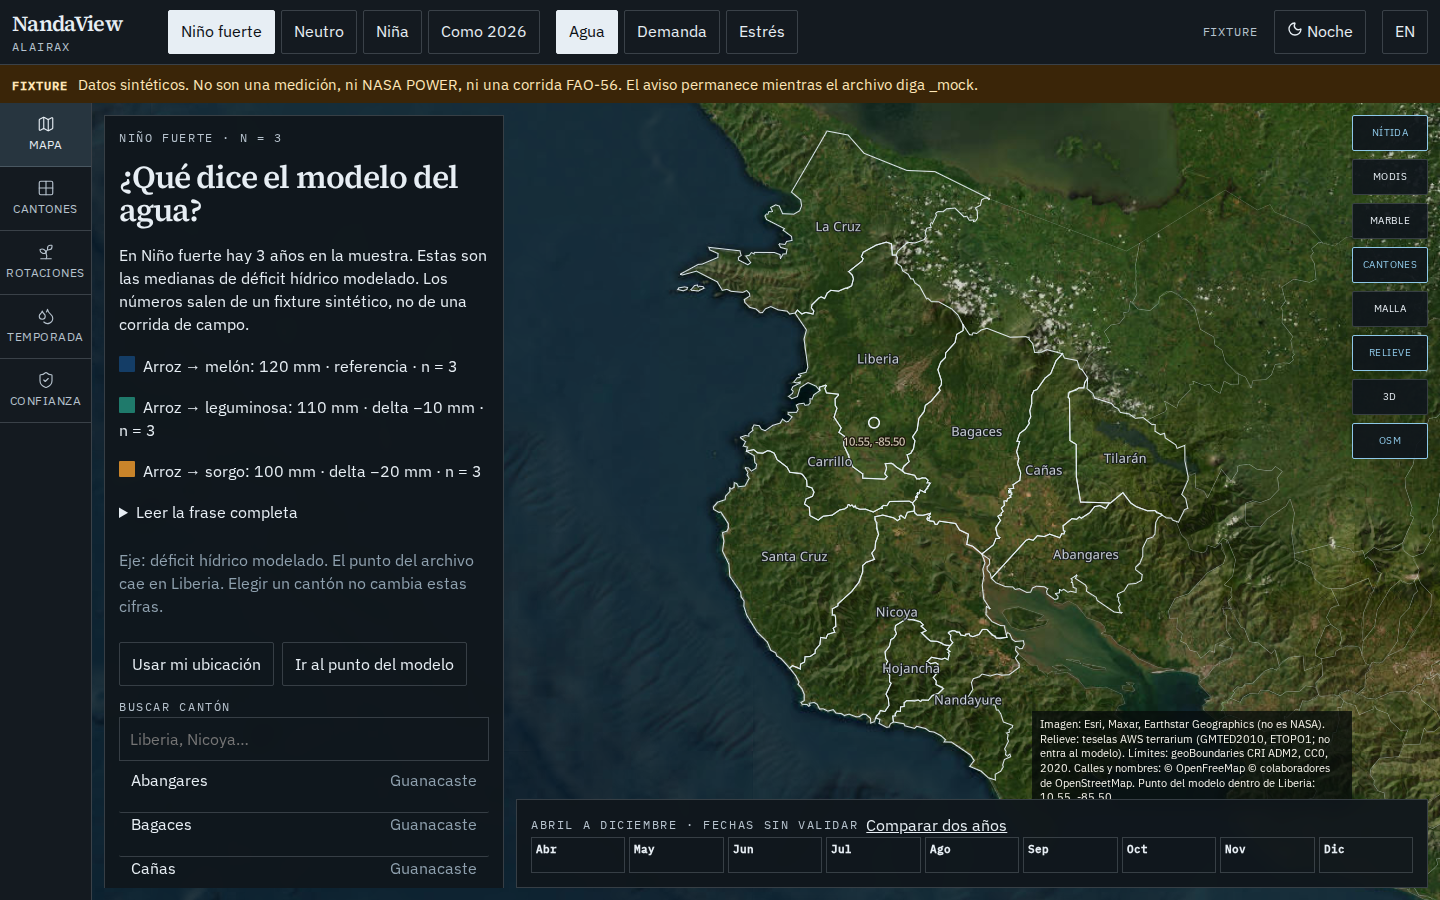
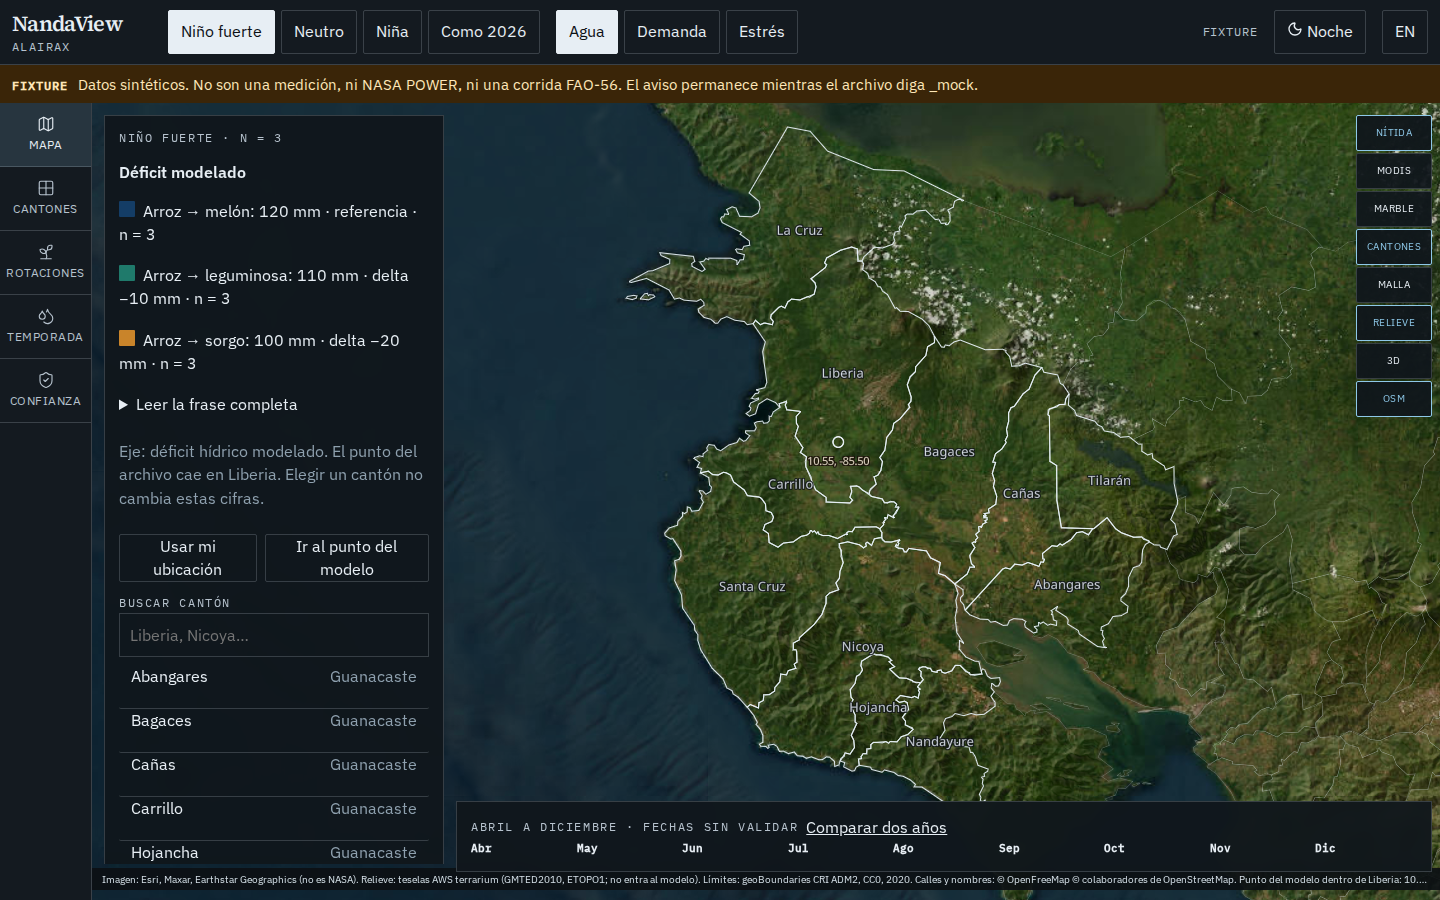
Adelgazar el panel del mapa.
La lectura del mapa pasa a una ficha corta, el crédito baja a una línea y la temporada deja de ser una cuadrícula. El territorio queda libre para leerse como instrumento, no como tablero.

Changed region(s): [[0.0625, 0.0933, 1.0, 1.0], [0.8125, 0.1867, 0.875, 0.2489], [0.875, 0.1244, 0.9062, 0.1556]]

diff --git a/frontend/src/screens/MapScreen.tsx b/frontend/src/screens/MapScreen.tsx
@@ -59,6 +59,7 @@ export function MapScreen() {
   const [query, setQuery] = useState("");
   const [ask, setAsk] = useState(false);
   const [shareOpen, setShareOpen] = useState(false);
+  const [layersOpen, setLayersOpen] = useState(false);
   const [copied, setCopied] = useState(false);
   const cantons = useCantons();
   const comparison = useComparison();
@@ -139,10 +140,9 @@ export function MapScreen() {
       <div className="hud left-hud">
         <section className="panel stack" aria-label={spanish ? "Lectura" : "Reading"}>
           <p className="kicker">{scenarioName || (spanish ? "Escenario" : "Scenario")} · n = {n || "…"}</p>
-          <h1>{spanish ? "¿Qué dice el modelo del agua?" : "What does the water model say?"}</h1>
+          <h1>{spanish ? "Déficit modelado" : "Modeled deficit"}</h1>
           {comparison.isPending ? <p>{spanish ? "Cargando la comparación…" : "Loading the comparison…"}</p> : null}
           {comparison.isError ? <p className="warn">{spanish ? "No se pudo leer la comparación." : "The comparison could not be read."} {(comparison.error as Error).message}</p> : null}
-          {compare ? <p className="prose">{leadSentence(lang, scenarioName, metric, n, compare._mock)}</p> : null}
           {loaded && !compare ? <p className="warn">{loaded.httpDetail}</p> : null}
           {compare ? ROTATION_ORDER.map((id) => {
             const rotation = compare.rotations.find((item) => item.rotation_id === id);
@@ -169,6 +169,7 @@ export function MapScreen() {
           {compare ? (
             <details>
               <summary>{spanish ? "Leer la frase completa" : "Read the full sentence"}</summary>
+              <p>{leadSentence(lang, scenarioName, metric, n, compare._mock)}</p>
               {ROTATION_ORDER.map((id) => {
                 const rotation = compare.rotations.find((item) => item.rotation_id === id);
                 if (!rotation) return null;
@@ -237,7 +238,8 @@ export function MapScreen() {
           </div>
         </section>
       </div>
-      <div className="hud right-hud" role="toolbar" aria-label={spanish ? "Capas" : "Layers"}>
+      <button className="layers-fab only-mobile" onClick={() => setLayersOpen(true)}>{spanish ? "Capas" : "Layers"}</button>
+      <div className="hud right-hud hide-mobile" role="toolbar" aria-label={spanish ? "Capas" : "Layers"}>
         {([
           ["satellite", spanish ? "Nítida" : "Sharp"],
           ["modis", "MODIS"],
@@ -280,6 +282,35 @@ export function MapScreen() {
             ? "La malla tiene un solo color: el p50 del punto, no un mapa. No hay interpolación."
             : "The mesh has one color: the point’s p50, not a map. There is no interpolation."}
         </p>
+      ) : null}
+      {layersOpen ? (
+        <div className="dialog-back" role="presentation" onClick={() => setLayersOpen(false)}>
+          <div className="dialog" role="dialog" aria-modal="true" aria-labelledby="layers-title" onClick={(event) => event.stopPropagation()}>
+            <h2 id="layers-title">{spanish ? "Capas" : "Layers"}</h2>
+            <div className="cluster" role="radiogroup" aria-label={spanish ? "Imagen de base" : "Base image"}>
+              {([
+                ["satellite", spanish ? "Nítida" : "Sharp"],
+                ["modis", "MODIS"],
+                ["marble", "Marble"],
+              ] as const).map(([id, label]) => (
+                <button key={id} aria-pressed={basemap === id} onClick={() => setBasemap(id)}>{label}</button>
+              ))}
+            </div>
+            <div className="cluster">
+              {([
+                ["cantons", spanish ? "Cantones" : "Cantons"],
+                ["hex", spanish ? "Malla" : "Mesh"],
+                ["terrain", spanish ? "Relieve" : "Relief"],
+                ["plates", "3D"],
+                ["osm", "OSM"],
+              ] as const).map(([id, label]) => (
+                <button key={id} aria-pressed={overlays[id]} onClick={() => toggleOverlay(id)}>{label}</button>
+              ))}
+            </div>
+            <p className="faint">{spanish ? "La malla usa un solo color: el valor del punto, no un mapa interpolado." : "The mesh uses one color: the point value, not an interpolated map."}</p>
+            <button onClick={() => setLayersOpen(false)}>{spanish ? "Cerrar" : "Close"}</button>
+          </div>
+        </div>
       ) : null}
       {ask ? (
         <div className="dialog-back" role="presentation" onClick={() => setAsk(false)}>

diff --git a/frontend/src/index.css b/frontend/src/index.css
@@ -172,7 +172,14 @@ img, svg { max-width: 100%; }
   padding: 14px;
 }
 [data-theme="sun"] .panel { backdrop-filter: none; }
-.panel h1, .plate h2, .screen h1 {
+.panel h1 {
+  font-family: var(--sans);
+  font-size: 1rem;
+  font-weight: 560;
+  letter-spacing: 0;
+  margin: 0 0 8px;
+}
+.plate h2, .screen h1 {
   font-family: var(--serif);
   font-weight: 560;
   letter-spacing: -0.03em;
@@ -192,20 +199,25 @@ img, svg { max-width: 100%; }
 .faint { color: var(--faint); }
 .warn { color: var(--danger); }
 
-.left-hud { left: 12px; top: 12px; width: min(400px, calc(100% - 24px)); max-height: calc(100% - 24px); overflow: auto; }
-.right-hud { right: 12px; top: 12px; display: flex; flex-direction: column; gap: 8px; }
-.bottom-hud { left: 424px; right: 12px; bottom: 12px; }
+.left-hud { left: 12px; top: 12px; width: min(340px, calc(100% - 24px)); max-height: calc(100% - 48px); overflow: auto; }
+.right-hud { right: 8px; top: 12px; display: flex; flex-direction: column; gap: 2px; }
+.bottom-hud { left: 364px; right: 8px; bottom: 28px; }
 .attrib {
   position: absolute;
-  right: 88px;
-  bottom: 78px;
+  left: 0;
+  right: 0;
+  bottom: 0;
   z-index: 1;
-  max-width: 320px;
-  font-size: 0.68rem;
-  line-height: 1.35;
-  color: #f7f4ec;
-  background: rgba(6, 12, 10, 0.78);
-  padding: 6px 8px;
+  max-width: none;
+  height: 22px;
+  overflow: hidden;
+  white-space: nowrap;
+  text-overflow: ellipsis;
+  font-size: 0.65rem;
+  line-height: 22px;
+  color: #d5e0e8;
+  background: rgba(12, 16, 20, 0.92);
+  padding: 0 10px;
 }
 .layer-btn { white-space: nowrap; }
 [data-theme="sun"] .attrib { color: #14191c; background: rgba(255, 250, 241, 0.92); }
@@ -255,10 +267,10 @@ img, svg { max-width: 100%; }
 
 .timeline { display: grid; grid-template-columns: repeat(9, 1fr); gap: 4px; }
 .month {
-  min-height: 36px;
-  border: 1px solid var(--line);
-  padding: 4px;
-  font-size: 0.75rem;
+  min-height: 0;
+  border: 0;
+  padding: 2px 0 0;
+  font-size: 0.72rem;
 }
 .month strong { display: block; font-family: var(--mono); font-size: 0.68rem; }
 .mark {
@@ -358,13 +370,13 @@ caption { text-align: left; font-family: var(--serif); font-size: 1.3rem; paddin
   .layers-fab { display: inline-flex; }
   .bottom-hud { display: none; }
   .attrib {
-    top: 8px;
-    bottom: auto;
-    left: 8px;
-    right: 72px;
-    max-width: none;
-    max-height: 2.7em;
-    overflow: hidden;
+    top: auto;
+    bottom: 64px;
+    left: 0;
+    right: 0;
+    height: 22px;
+    max-height: none;
+    white-space: nowrap;
   }
   .left-hud { max-height: 30%; }
   .topbar { gap: 8px; }

diff --git a/frontend/e2e/productor.spec.ts b/frontend/e2e/productor.spec.ts
@@ -18,7 +18,7 @@ test("un productor resuelve las cinco tareas y la consola queda limpia", async (
 
   await page.goto("/#/");
   await expect(page.getByRole("status").first()).toContainText("FIXTURE");
-  await expect(page.getByRole("heading", { name: "¿Qué dice el modelo del agua?" })).toBeVisible();
+  await expect(page.getByRole("heading", { name: "Déficit modelado" })).toBeVisible();
   await page.getByRole("button", { name: "Ir al punto del modelo" }).click();
   await expect(page.getByRole("option", { name: /Liberia/ })).toHaveAttribute("aria-selected", "true");
 

diff --git a/frontend/src/map/NandaMap.tsx b/frontend/src/map/NandaMap.tsx
@@ -350,7 +350,7 @@ export function NandaMap({ hidden, inset }: { hidden: boolean; inset: "panel" | 
               padding: narrow
                 ? { top: 96, bottom: 210, left: 12, right: 12 }
                 : inset === "panel"
-                  ? { top: 28, bottom: 120, left: 430, right: 96 }
+                  ? { top: 24, bottom: 72, left: 368, right: 96 }
                   : { top: 36, bottom: 64, left: 120, right: 56 },
               pitch: 0,
               bearing: 0,
